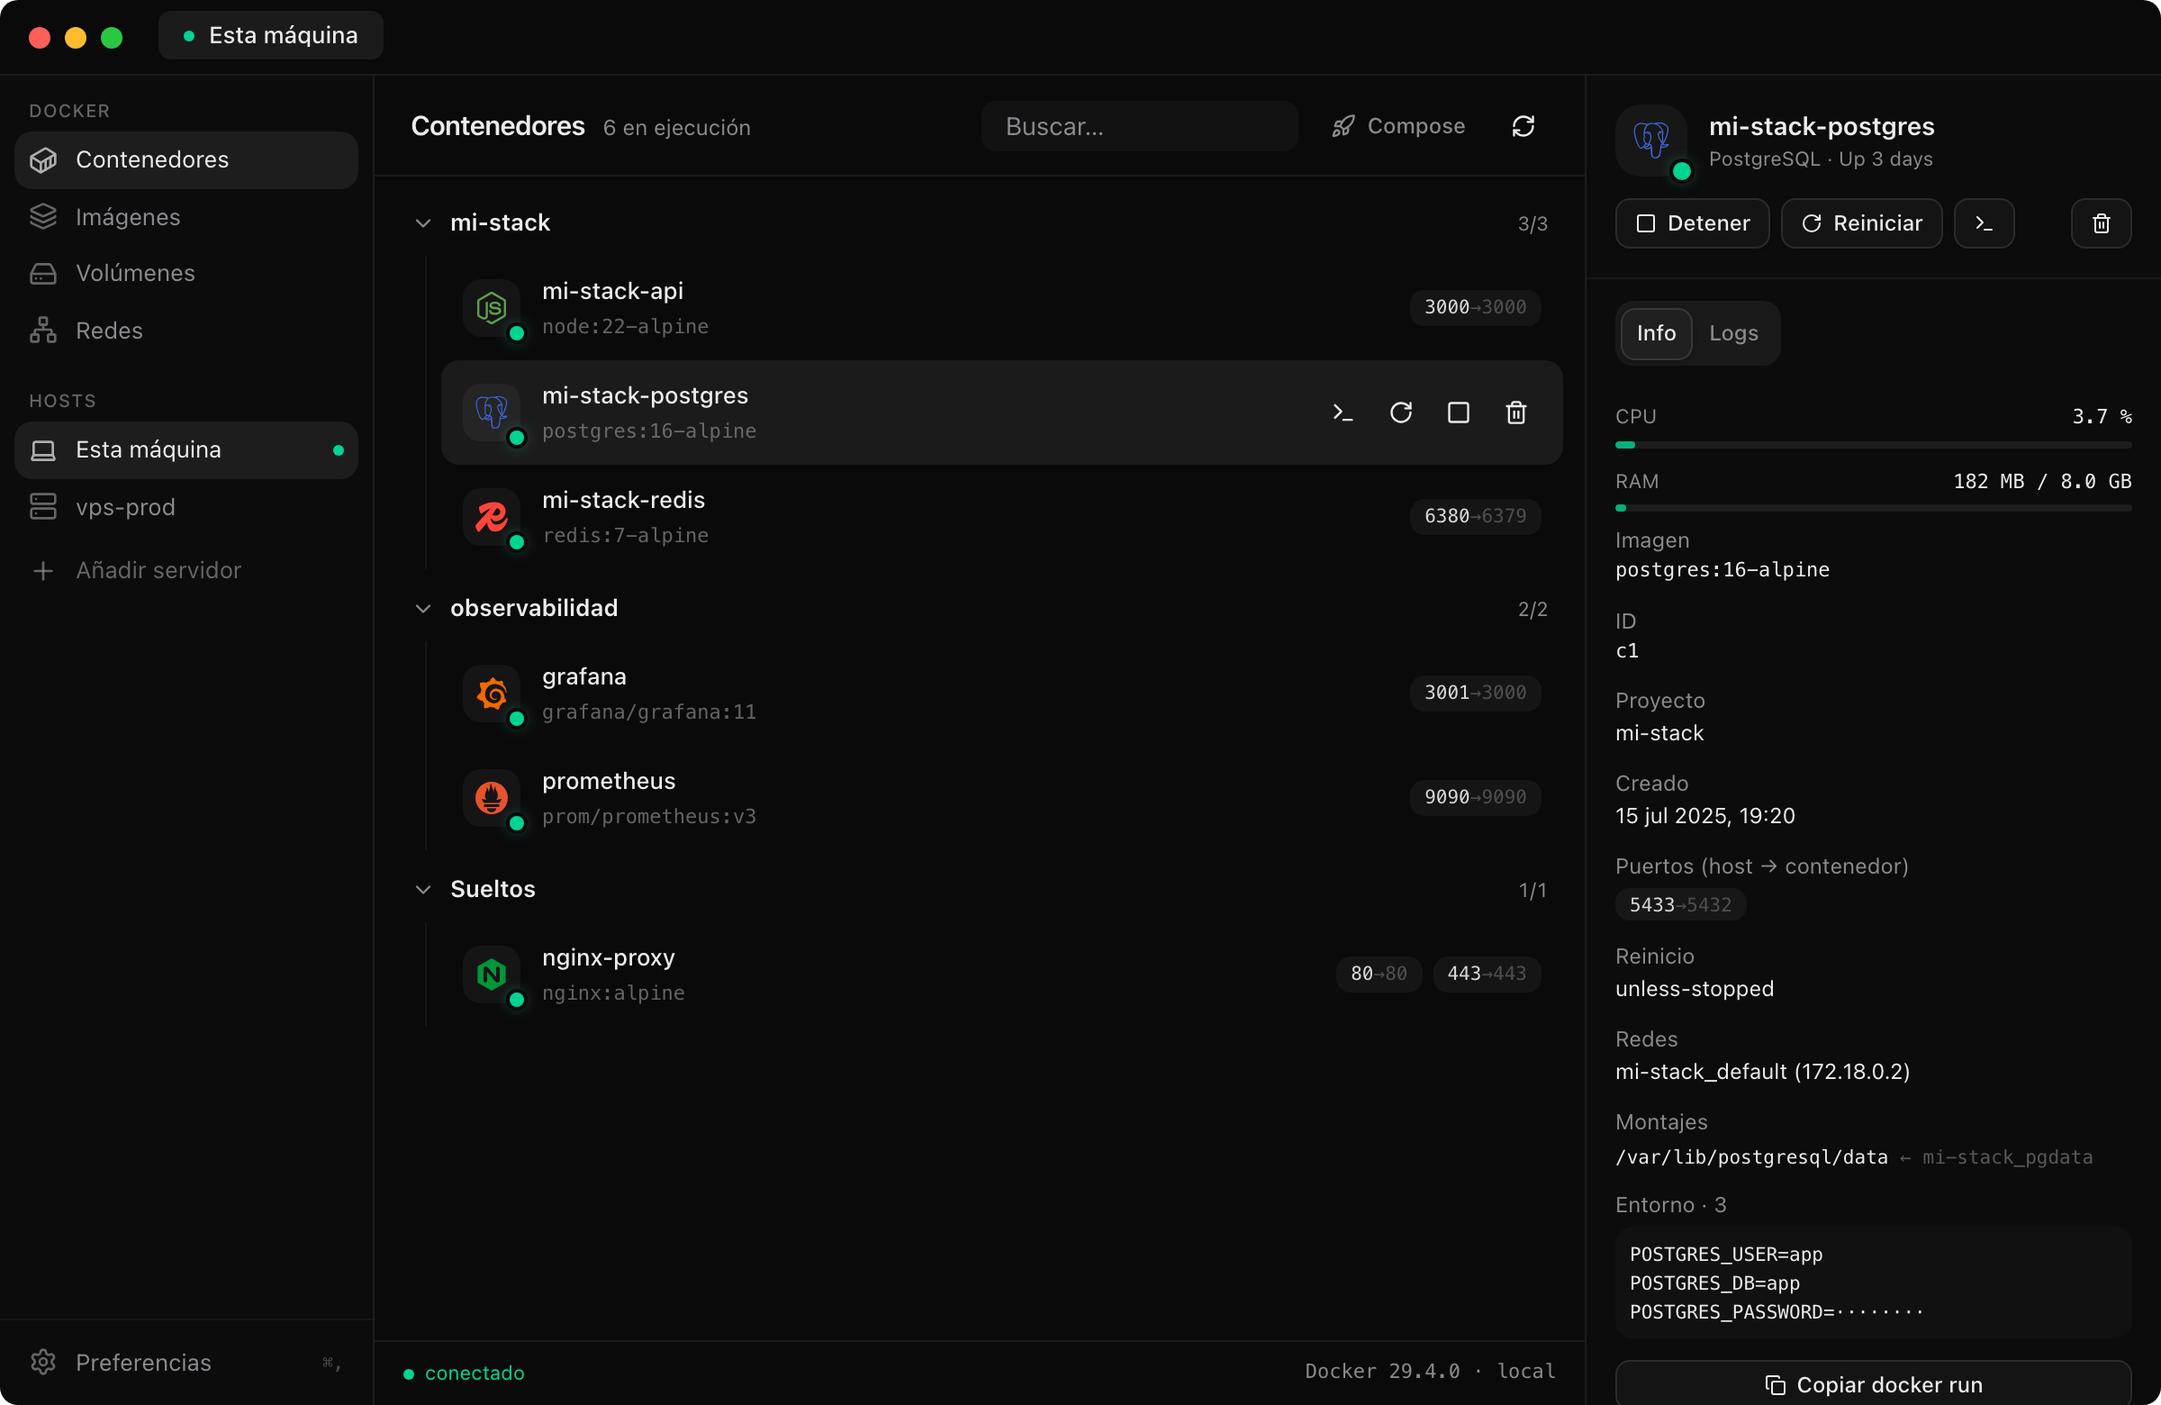
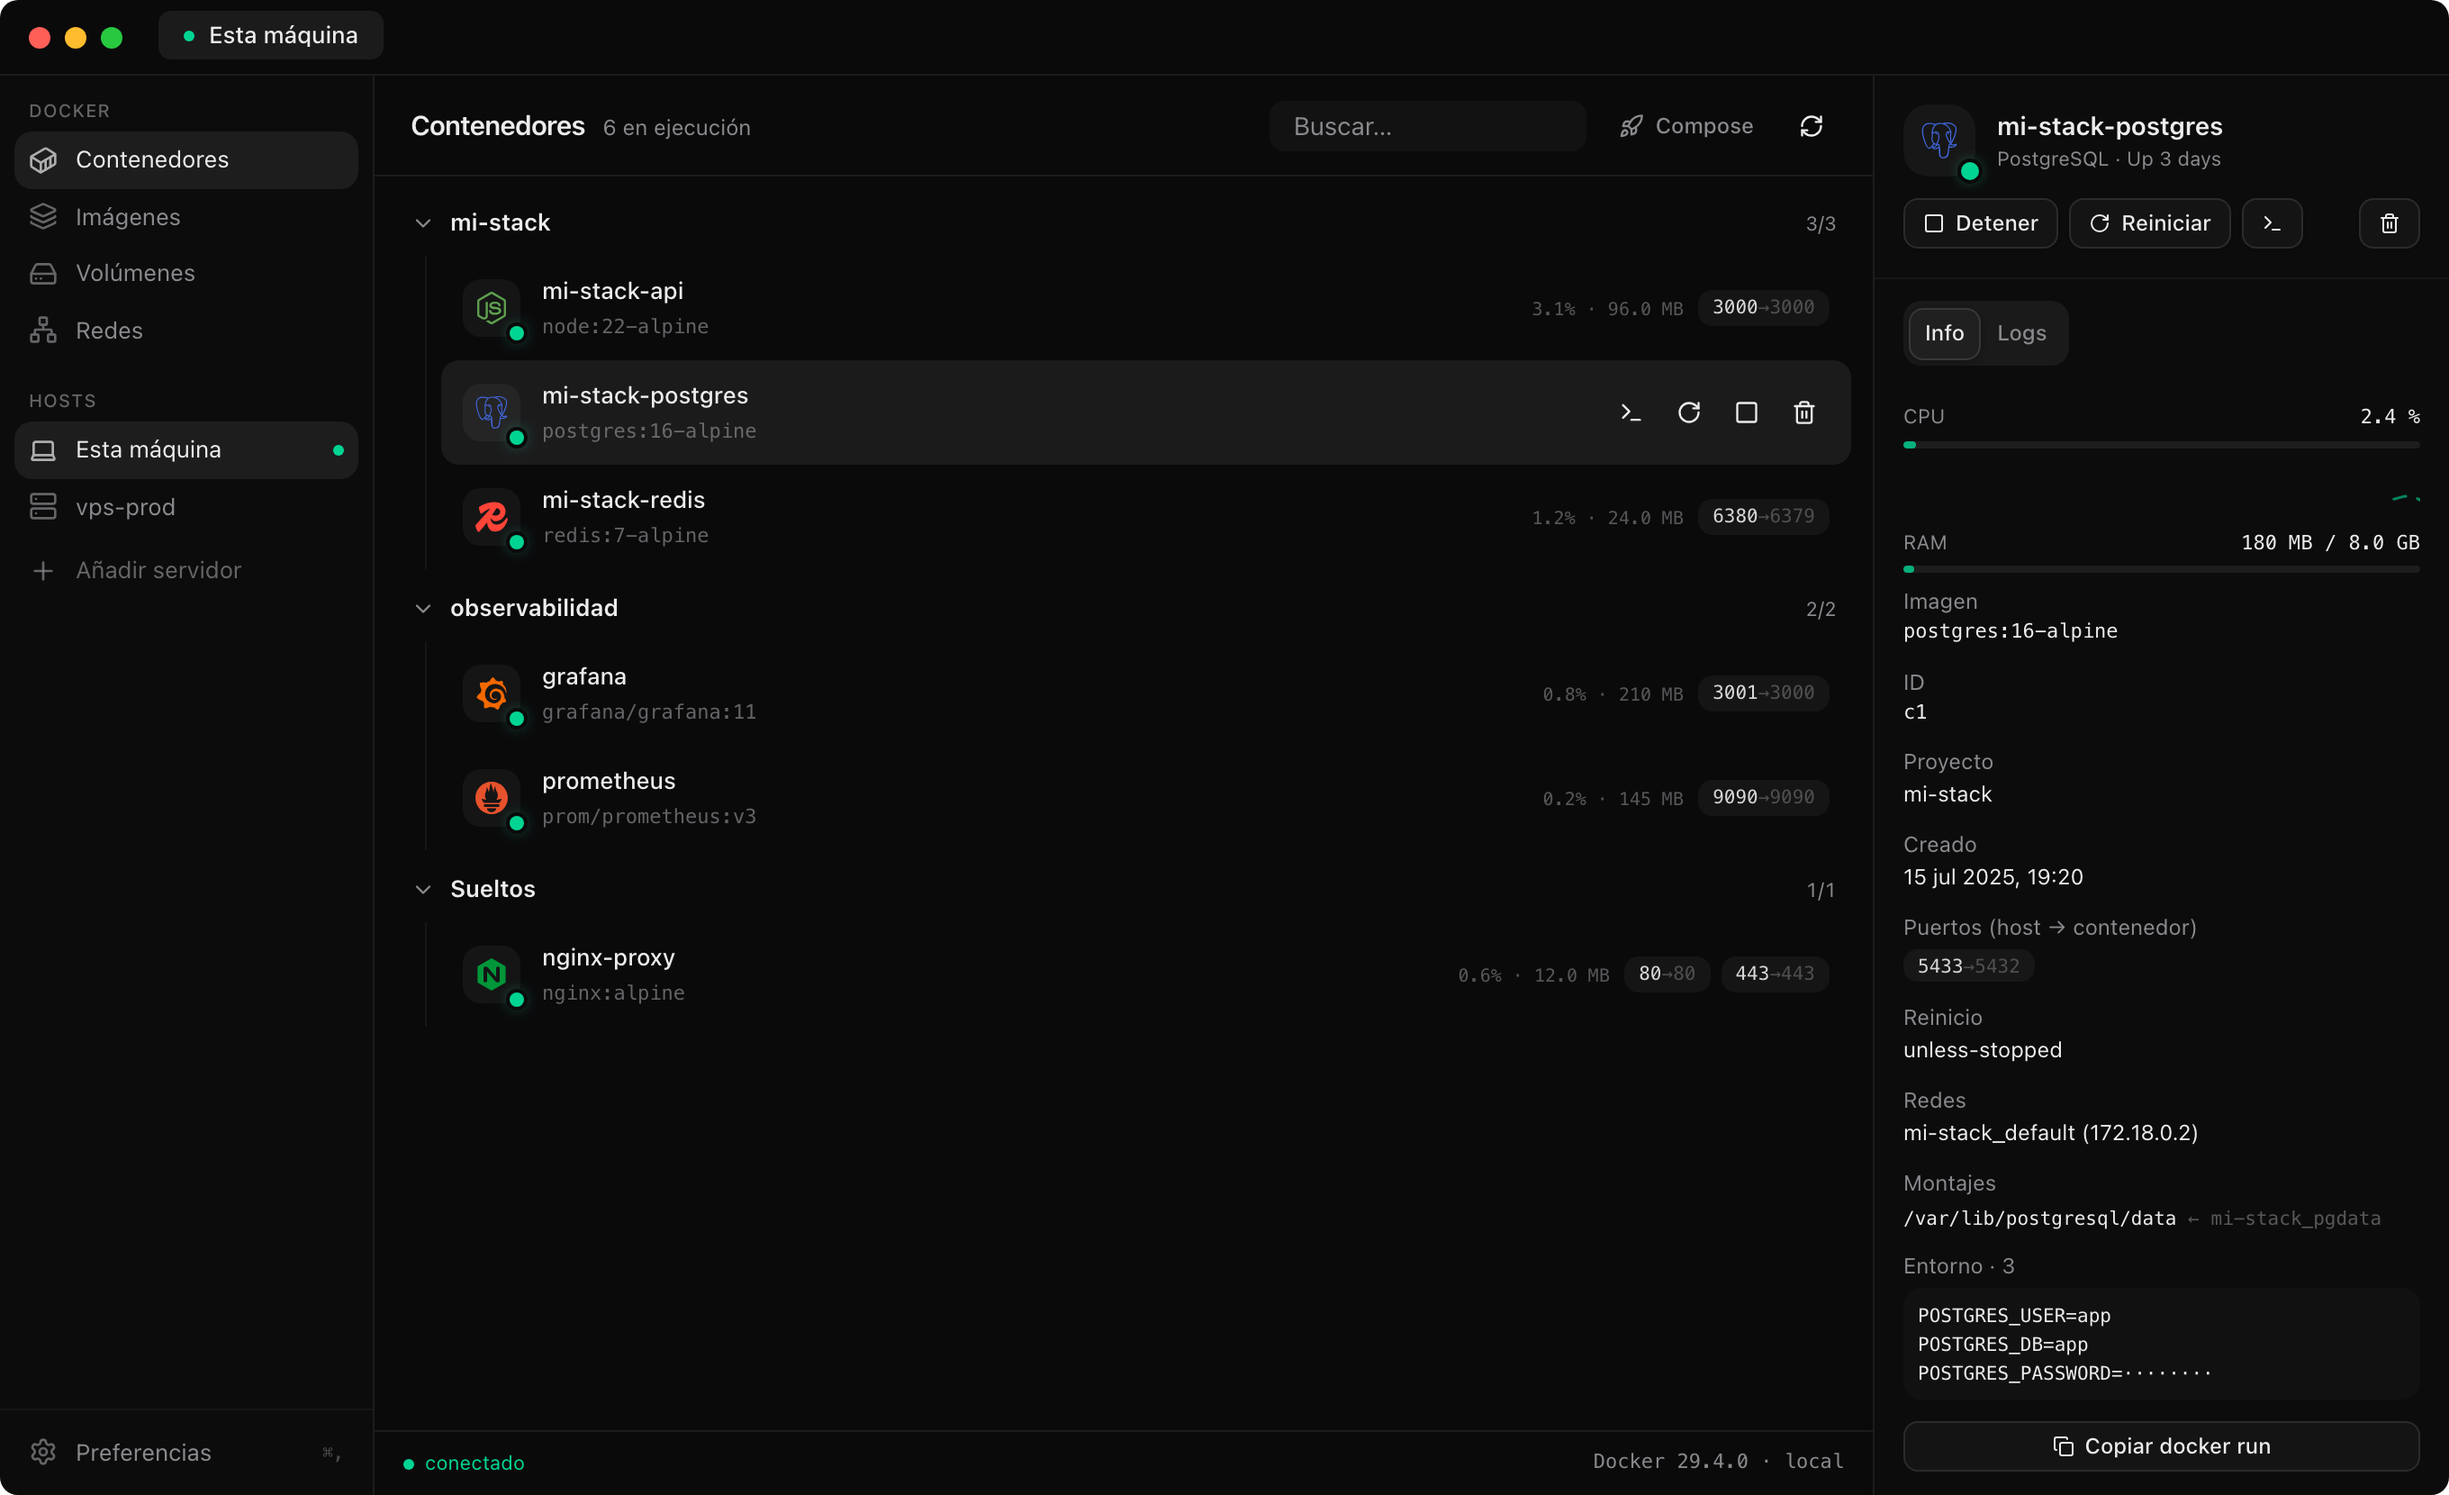
🌐 Web y README al día con la v0.3.0: tiempo real, shell al servidor y stats en el mockup y la captura

diff --git a/web/index.html b/web/index.html
@@ -168,6 +168,10 @@
       background: rgba(255, 255, 255, 0.05); border-radius: 5px; padding: 2px 6px;
       color: var(--muted); white-space: nowrap;
     }
+    .rstats {
+      font-family: "SF Mono", ui-monospace, monospace; font-size: 9px;
+      color: var(--faint); white-space: nowrap;
+    }
     .chip b { color: var(--fg); font-weight: 500; }
     .main-status {
       display: flex; justify-content: space-between;
@@ -356,13 +360,13 @@
         </div>
         <div class="card reveal">
           <span class="icon"><svg viewBox="0 0 24 24" fill="none" stroke="currentColor" stroke-width="2"><rect x="3" y="4" width="18" height="16" rx="2"/><path d="m7 9 3 3-3 3M13 15h4"/></svg></span>
-          <h3>Consola dentro del contenedor</h3>
-          <p>Terminal real (xterm) vía Docker API: bash o sh, colores, resize. Funciona idéntico contra tus servidores remotos, a través del túnel.</p>
+          <h3>Consola en el contenedor… y en el servidor</h3>
+          <p>Terminal real (xterm) dentro de cualquier contenedor vía Docker API, y shell SSH directa al servidor desde la barra lateral. El flujo ssh + docker completo, sin salir de la app.</p>
         </div>
         <div class="card reveal">
           <span class="icon"><svg viewBox="0 0 24 24" fill="none" stroke="currentColor" stroke-width="2"><path d="M4 19V5M4 19h16"/><path d="m7 14 4-4 3 3 5-6"/></svg></span>
-          <h3>Stats y salud en vivo</h3>
-          <p>CPU y RAM por contenedor en streaming, y badges de healthcheck: si algo lleva 9 días unhealthy, te lo grita antes de que duela.</p>
+          <h3>En tiempo real, de verdad</h3>
+          <p>Escucha los eventos de Docker: arranques y caídas se reflejan al instante. CPU y RAM en cada fila, sparkline de tendencia, y badges de healthcheck que avisan antes de que duela.</p>
         </div>
         <div class="card reveal">
           <span class="icon"><svg viewBox="0 0 24 24" fill="none" stroke="currentColor" stroke-width="2"><path d="M8 6h13M8 12h13M8 18h13"/><path d="M3 6h.01M3 12h.01M3 18h.01"/></svg></span>
@@ -543,9 +547,9 @@
           {
             name: "mi-stack", counts: "3/3",
             rows: [
-              { icon: "🐘", name: "mi-stack-postgres", img: "postgres:16-alpine", chips: [["5433", "5432"]], st: "" },
-              { icon: "♦", name: "mi-stack-redis", img: "redis:7-alpine", chips: [["6380", "6379"]], st: "" },
-              { icon: "🌐", name: "mi-stack-api", img: "node:22-alpine", chips: [["3000", "3000"]], st: "" },
+              { icon: "🐘", name: "mi-stack-postgres", img: "postgres:16-alpine", stats: "0.3% · 96 MB", chips: [["5433", "5432"]], st: "" },
+              { icon: "♦", name: "mi-stack-redis", img: "redis:7-alpine", stats: "0.1% · 12 MB", chips: [["6380", "6379"]], st: "" },
+              { icon: "🌐", name: "mi-stack-api", img: "node:22-alpine", stats: "2.4% · 182 MB", chips: [["3000", "3000"]], st: "" },
             ],
           },
         ],
@@ -558,10 +562,10 @@
           {
             name: "prod", counts: "3/4",
             rows: [
-              { icon: "🚦", name: "prod-nginx", img: "nginx:alpine", chips: [["80", "80"], ["443", "443"]], st: "" },
-              { icon: "🌐", name: "prod-api", img: "ghcr.io/acme/api:1.4", chips: [["3000", "3000"]], st: "" },
-              { icon: "📬", name: "prod-queue", img: "rabbitmq:3", chips: [], st: "warn" },
-              { icon: "⚙", name: "prod-worker", img: "ghcr.io/acme/worker:1.4", chips: [], st: "off" },
+              { icon: "🚦", name: "prod-nginx", img: "nginx:alpine", stats: "0.6% · 24 MB", chips: [["80", "80"], ["443", "443"]], st: "" },
+              { icon: "🌐", name: "prod-api", img: "ghcr.io/acme/api:1.4", stats: "4.8% · 310 MB", chips: [["3000", "3000"]], st: "" },
+              { icon: "📬", name: "prod-queue", img: "rabbitmq:3", stats: "1.1% · 145 MB", chips: [], st: "warn" },
+              { icon: "⚙", name: "prod-worker", img: "ghcr.io/acme/worker:1.4", stats: "", chips: [], st: "off" },
             ],
           },
         ],
@@ -589,11 +593,14 @@
           const chips = row.chips
             .map(([pub, priv]) => `<span class="chip"><b>${pub}</b>→${priv}</span>`)
             .join("");
+          const stats = row.stats
+            ? `<span class="rstats">${row.stats}</span>`
+            : "";
           html += `
             <div class="crow" style="animation-delay:${delay}ms">
               <span class="cicon">${row.icon}<span class="st ${row.st}"></span></span>
               <span class="cmeta"><span class="cname">${row.name}</span><br /><span class="cimg mono">${row.img}</span></span>
-              <span class="chips">${chips}</span>
+              <span class="chips">${stats}${chips}</span>
             </div>`;
           delay += 70;
         }

diff --git a/README.md b/README.md
@@ -33,10 +33,12 @@ multiplataforma y con tus VPS dentro.
   (`stop`, `restart`, `down`).
 - **Despliega un Compose pegándolo** — pega tu `docker-compose.yml`, dale nombre y
   míralo levantarse con la salida en vivo. Se guarda en tu biblioteca para re-desplegar.
-- **Consola dentro del contenedor** — terminal real (xterm) vía Docker API: bash o sh,
-  colores, resize. Idéntica contra servidores remotos, a través del túnel.
-- **Logs y stats en vivo** — streaming con búsqueda, CPU y RAM por contenedor, y badges
-  de healthcheck que avisan cuando algo lleva días `unhealthy`.
+- **Consola en el contenedor… y en el servidor** — terminal real (xterm) dentro de
+  cualquier contenedor vía Docker API, y shell SSH directa al servidor desde la barra
+  lateral. El flujo `ssh` + `docker` completo, sin salir de la app.
+- **En tiempo real, de verdad** — escucha los eventos de Docker: arranques y caídas se
+  reflejan al instante. CPU y RAM en cada fila, sparkline de tendencia, logs en streaming
+  con búsqueda y badges de healthcheck que avisan antes de que duela.
 - **Imágenes, volúmenes y redes** — las cuatro vistas completas, con limpieza guiada
   (`prune`) que dice cuánto espacio liberaste.
 - **Barra de menú de macOS** — tus proyectos y su estado sin abrir la ventana, con
